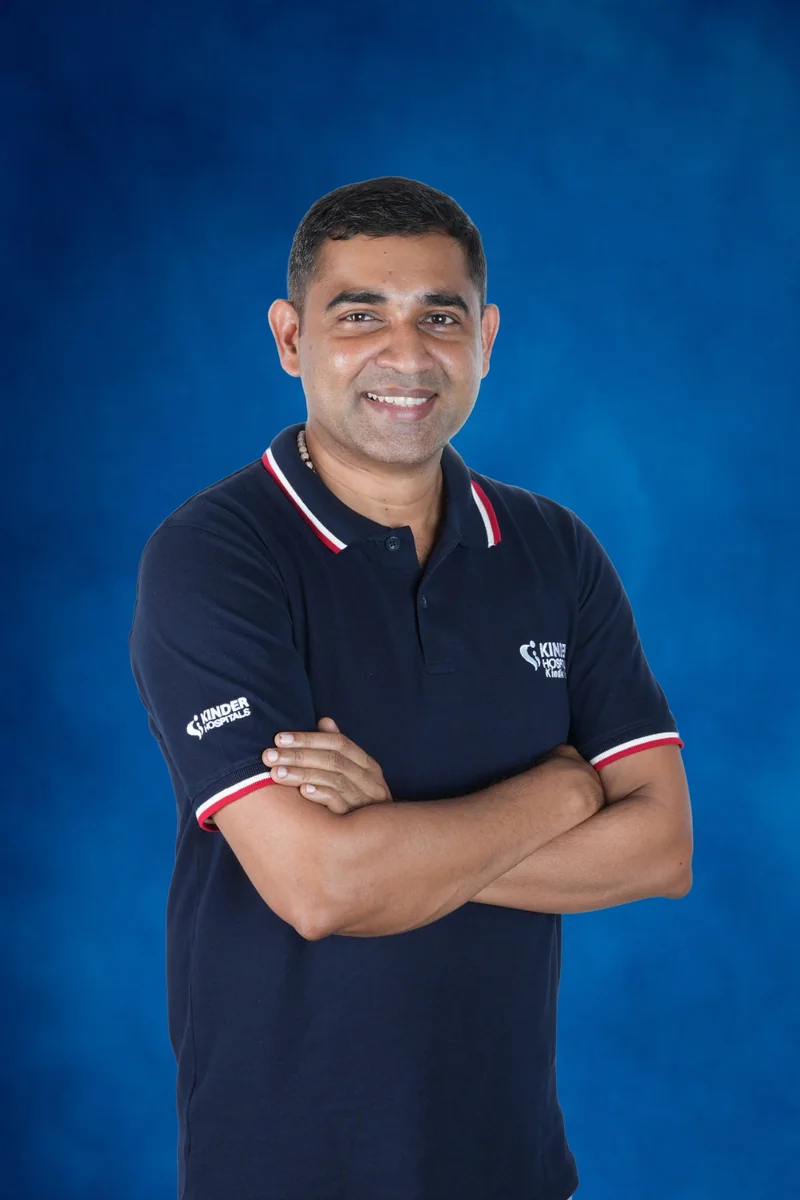
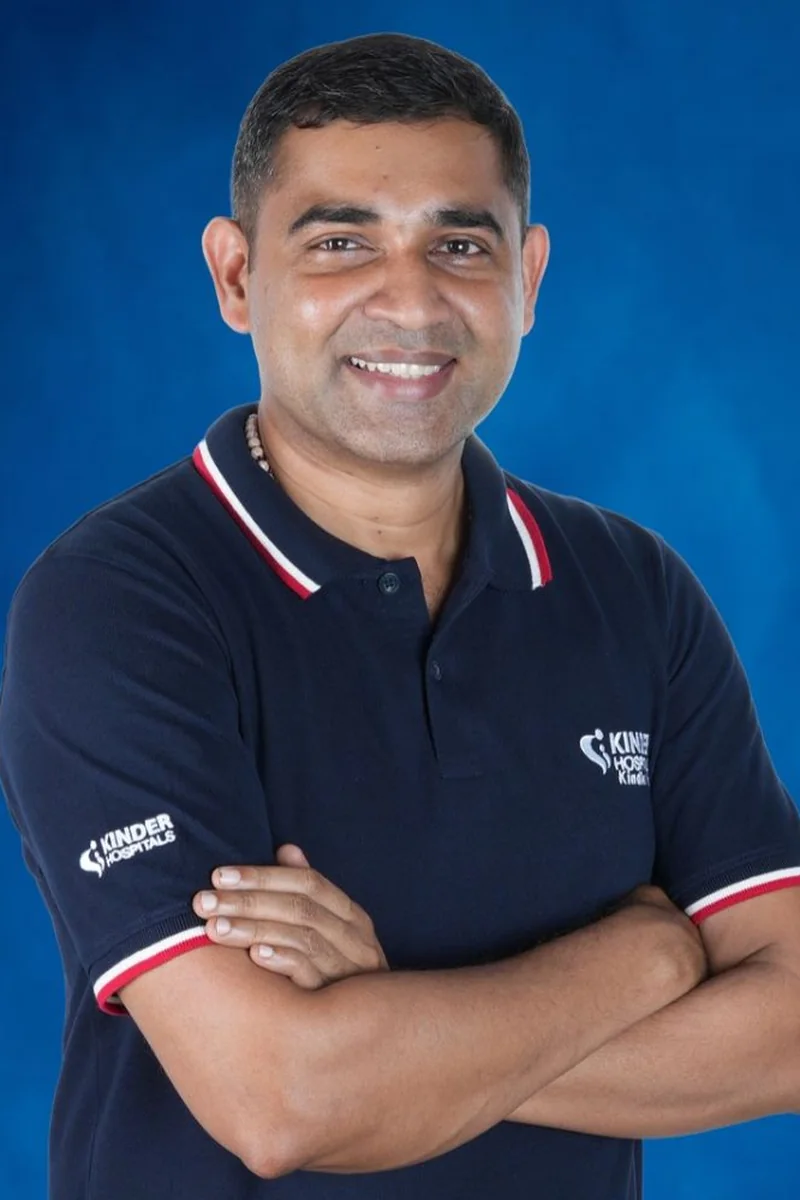
About Us: the management team's new studio portraits, in the hospital's order
- The Chairman's and the CEO & MD's profile portraits, and Mr Anto
  Twinkle's portrait, are replaced with the new studio photographs.
- "Our management team" lists all nine in the hospital's order, each with
  their photo and designation: Dr V. K. Pradeep Kumar (Chairman), Renjith
  Krishnan (MD & CEO), Sreejith S (GM Healthcare Promotions), Jithin Raj
  (Head, Branding & Media), Sivadas (GM HR), Anto Twinkle (COO, Kinder
  Hospitals Kochi), Sijo, Prasanth and Abeesh; members with a full profile
  link to it. It replaces the earlier leadership cards there.
- Anto Twinkle's card on the Kochi page reads COO, Kinder Hospitals Kochi.

Claude-Session: https://claude.ai/code/session_01EkVbJB9b3MsC7CiRPssJhW

diff --git a/components/ManagementTeam.module.css b/components/ManagementTeam.module.css
@@ -1,0 +1,27 @@
+.grid { list-style: none; margin: 0; padding: 0; display: grid; grid-template-columns: repeat(3, minmax(0, 1fr)); gap: 26px; }
+.card { min-width: 0; }
+.inner {
+  display: flex; flex-direction: column; height: 100%; overflow: hidden; border-radius: 22px; background: #fff;
+  border: 1px solid #E3E9F2; color: inherit; text-decoration: none;
+  box-shadow: 0 1px 0 rgba(27,58,115,.04), 0 22px 46px -34px rgba(19,33,59,.55);
+  transition: transform .25s ease, box-shadow .25s ease, border-color .25s ease;
+}
+a.inner:hover, a.inner:focus-visible { transform: translateY(-4px); border-color: #C9D6EA; box-shadow: 0 30px 56px -34px rgba(19,33,59,.6); }
+a.inner:focus-visible { outline: 3px solid #799ACC; outline-offset: 3px; }
+.photo { display: block; aspect-ratio: 5 / 4; overflow: hidden; background: #1A3570; }
+.photo img { display: block; width: 100%; height: 100%; object-fit: cover; object-position: center 18%; transition: transform .6s cubic-bezier(.2,.75,.25,1); }
+a.inner:hover .photo img { transform: scale(1.04); }
+.text { display: flex; flex-direction: column; gap: 6px; flex: 1; padding: 20px 22px 22px; border-top: 3px solid var(--accent, #E62129); }
+.text strong { font-family: var(--display); font-size: 20px; line-height: 1.25; letter-spacing: -.01em; color: var(--primary-dark, #1B3A73); }
+.role { font-size: 12px; font-weight: 700; letter-spacing: .08em; text-transform: uppercase; line-height: 1.5; color: #B03337; }
+.more { margin-top: auto; padding-top: 10px; display: inline-flex; gap: 8px; font-size: 14px; font-weight: 700; color: var(--primary, #2F62B0); }
+.more i { font-style: normal; transition: transform .2s ease; }
+a.inner:hover .more i { transform: translateX(4px); }
+@media (max-width: 900px) { .grid { grid-template-columns: repeat(2, minmax(0, 1fr)); gap: 18px; } }
+@media (max-width: 480px) {
+  .grid { gap: 12px; }
+  .text { padding: 14px 14px 16px; }
+  .text strong { font-size: 16.5px; }
+  .role { font-size: 10.5px; letter-spacing: .06em; }
+}
+@media (prefers-reduced-motion: reduce) { .inner, .photo img, .more i { transition: none; } a.inner:hover { transform: none; } }

diff --git a/app/about/page.js b/app/about/page.js
@@ -1,7 +1,7 @@
 import ContentPages from '@/components/ContentPages';
-import LeadershipTeam from '@/components/LeadershipTeam';
-import { groupLeaders, SHOW_LEADERSHIP } from '@/lib/leadership.mjs';
-import { LEADERSHIP_PROFILES, PROFILED } from '@/lib/leadership-profiles.mjs';
+import ManagementTeam from '@/components/ManagementTeam';
+import { SHOW_LEADERSHIP } from '@/lib/leadership.mjs';
+import { LEADERSHIP_PROFILES } from '@/lib/leadership-profiles.mjs';
 import Accreditations from '@/components/Accreditations';
 import { HubProse } from '@/components/Hub';
 import { getContent } from '@/lib/api';
@@ -60,7 +60,6 @@ export default async function AboutPage() {
   const content = await getContent();
   const brand = brandOf(content.settings);
   // The chairman and the CEO are profiled in full above the team cards.
-  const leaders = groupLeaders(content.pages || []).filter((l) => !PROFILED.has(l.slug));
   const SHOWN = new Set(['about-us-about-kinder-hospitals', 'about-us-mission-vision-values']);
   const morePages = (content.pages || []).filter((p) => p.category === 'About Us' && !SHOWN.has(p.slug));
   return (
@@ -229,13 +228,12 @@ export default async function AboutPage() {
               ))}
             </div>
 
-            {leaders.length > 0 && <>
-              <div className={styles.teamHead}>
-                <span className="section-eyebrow">Our leadership team</span>
-                <h3>The people who lead <em>Kinder Hospitals</em></h3>
-              </div>
-              <LeadershipTeam leaders={leaders} />
-            </>}
+            {/* The management team, in the hospital's order */}
+            <div className={styles.teamHead}>
+              <span className="section-eyebrow">Our management team</span>
+              <h3>The people who lead <em>Kinder Hospitals</em></h3>
+            </div>
+            <ManagementTeam />
           </div>
         </section>}
 

diff --git a/components/ManagementTeam.js b/components/ManagementTeam.js
@@ -1,0 +1,26 @@
+import { MANAGEMENT_TEAM } from '@/lib/management-team.mjs';
+import styles from './ManagementTeam.module.css';
+
+// The management team in the hospital's order: studio portrait, name and
+// role; a member with a full profile links to it.
+export default function ManagementTeam({ team = MANAGEMENT_TEAM }) {
+  return (
+    <ol className={styles.grid}>
+      {team.map((m) => {
+        const body = <>
+          <span className={styles.photo}><img src={m.photo} alt={m.name} width={720} height={720} loading="lazy" decoding="async" /></span>
+          <span className={styles.text}>
+            <strong>{m.name}</strong>
+            {m.role && <span className={styles.role}>{m.role}</span>}
+            {m.href && <span className={styles.more}>View profile <i aria-hidden="true">→</i></span>}
+          </span>
+        </>;
+        return (
+          <li key={m.slug} className={styles.card}>
+            {m.href ? <a className={styles.inner} href={m.href}>{body}</a> : <div className={styles.inner}>{body}</div>}
+          </li>
+        );
+      })}
+    </ol>
+  );
+}
